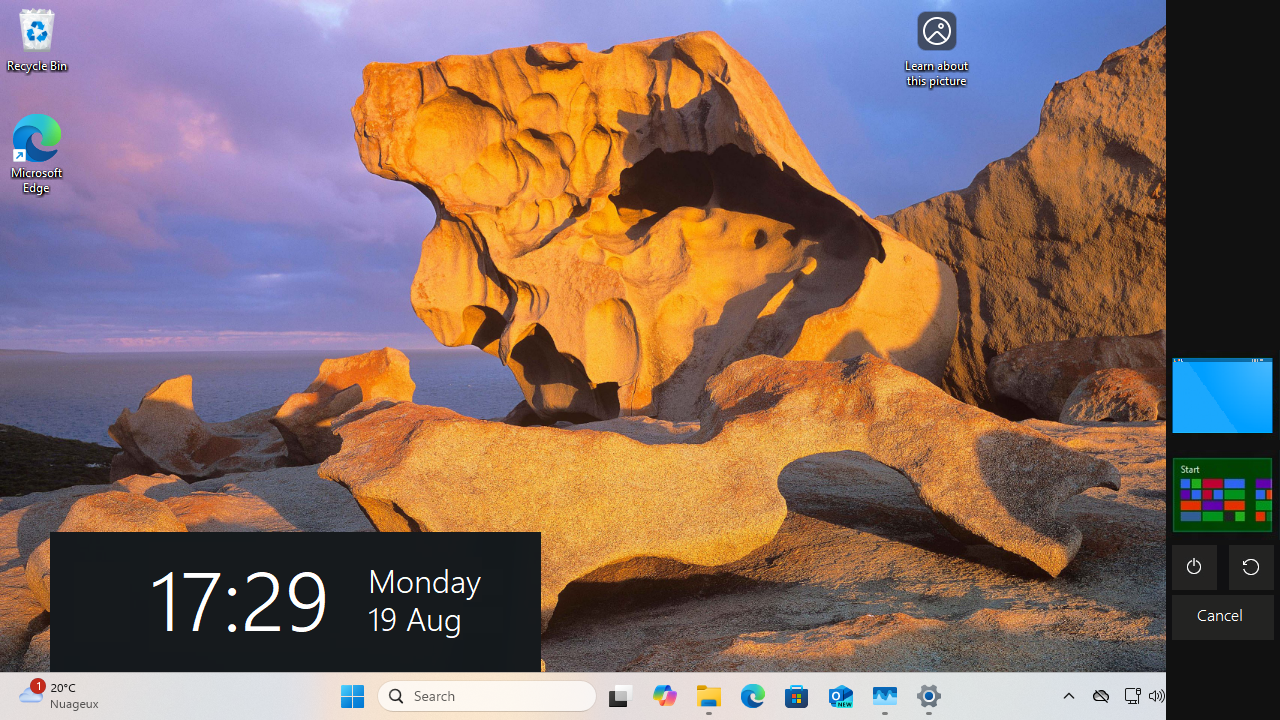
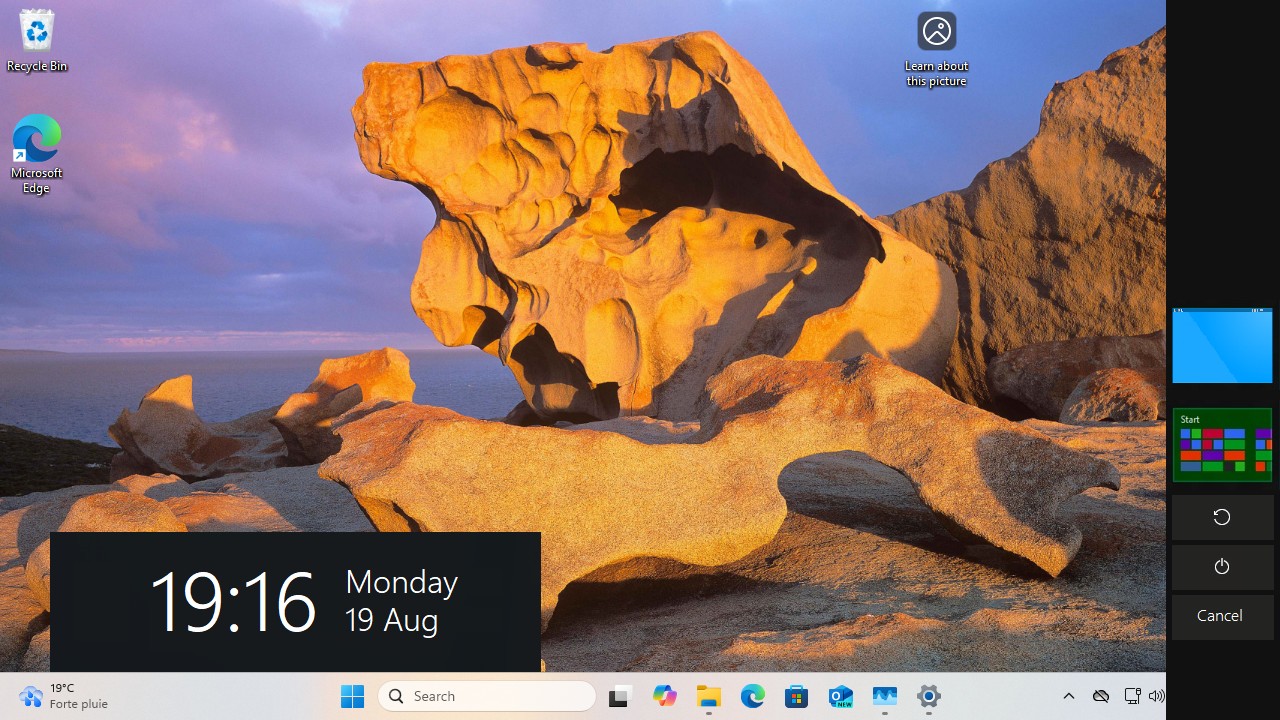
Side-by-side Charms buttons on the Charms bar not yet supported

Changed region(s): [[0.9062, 0.4278, 1.0, 0.7639], [0.125, 0.7944, 0.375, 0.8861], [0.0, 0.9472, 0.0938, 1.0]]

diff --git a/HotCorners.cpp b/HotCorners.cpp
@@ -523,7 +523,8 @@ LRESULT CALLBACK WndProc(HWND hwnd, UINT msg, WPARAM wParam, LPARAM lParam)
 		{
 			POINT pt;
 			GetCursorPos(&pt);
-			if ((CBType == 0 && pt.x+HCofsx+(int)(HCmulwx*screenWidth) >= wx && pt.x+HCofsx+(int)(HCmulwx*screenWidth) <= x)||(CBType == 1 && pt.y+HCofsy+(int)(HCmulhy*screenHeight) >= wy && pt.y+HCofsy+(int)(HCmulhy*screenHeight) <= y))
+			if ((CBType == 0 && pt.x+HCofsx+(int)(HCmulwx*screenWidth) >= wx && pt.x+HCofsx+(int)(HCmulwx*screenWidth) <= x)||
+				(CBType == 1 && pt.y+HCofsy+(int)(HCmulhy*screenHeight) >= wy && pt.y+HCofsy+(int)(HCmulhy*screenHeight) <= y))
 			{
 				EnumWindows(EnumWindowsHideProc, 0);
 			}
